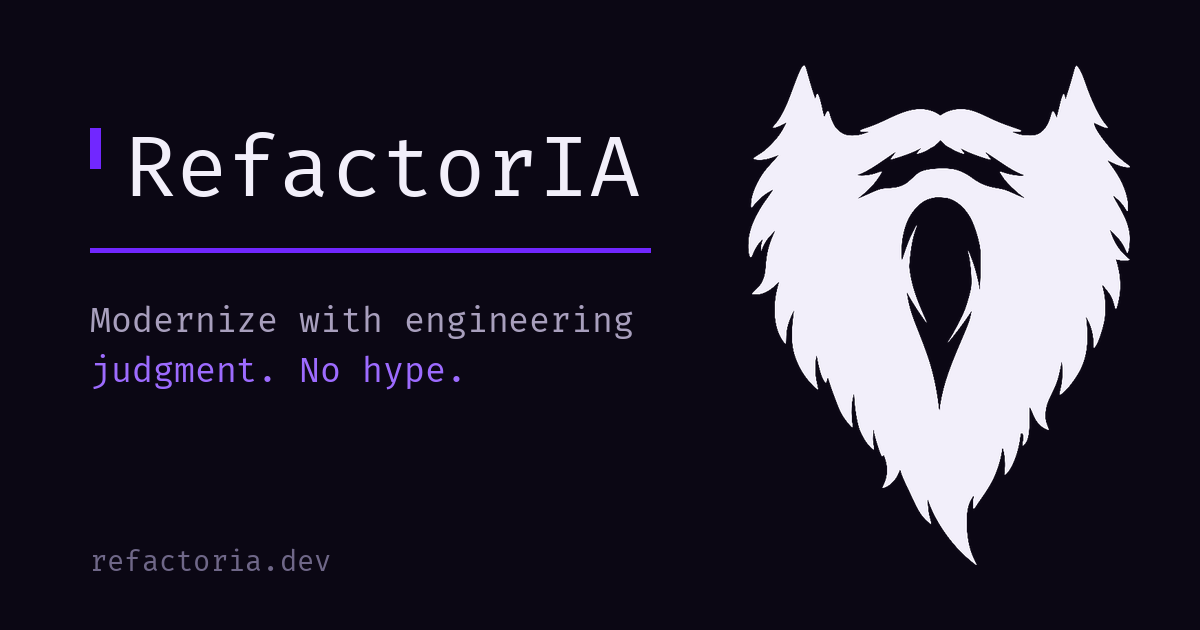
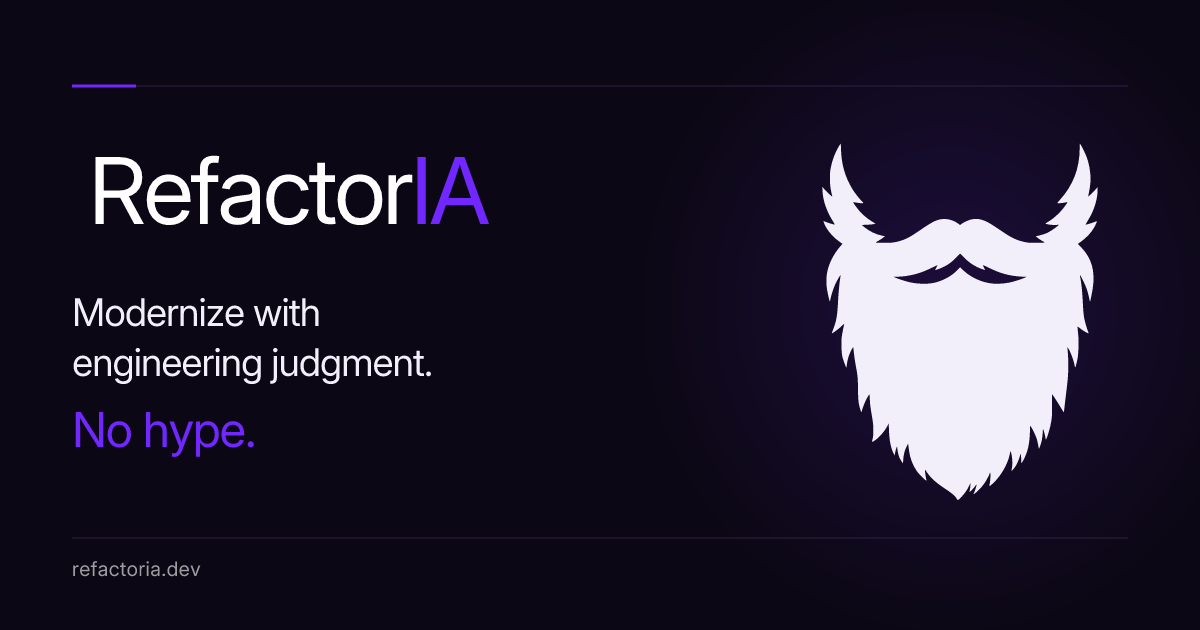
feat: swap brand assets for the design system set (#25) (#33)

diff --git a/README.md b/README.md
@@ -26,7 +26,6 @@ Sitio público estático de [refactoria.dev](https://refactoria.dev): la casa ca
 - `src/layouts/BaseLayout.astro`: SEO, Open Graph, Twitter cards y JSON-LD (`Organization`, `Person`, `WebSite`) que conecta RefactorIA con Juan Barbat y los canales oficiales.
 - `src/styles/global.css`: paleta violeta-negro derivada de los assets de marca.
 - `public/`: favicon, apple-touch-icon, og-image, robots.txt. El sitemap se genera en el build.
-- `scripts/generate-assets.py`: regenera favicon y og-image desde los assets de marca (requiere `cairosvg` y `Pillow`).
 
 Los sources de marca (logo barba, fuente FiraCode custom) viven en el repositorio de contenido `refactoria`, en `assets/`.
 
